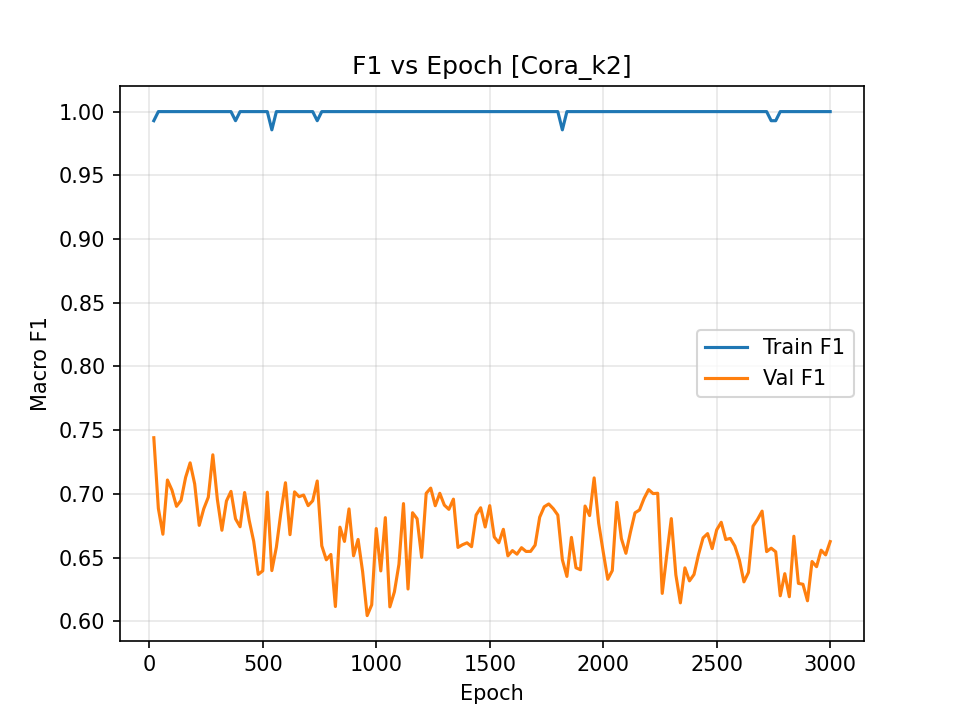
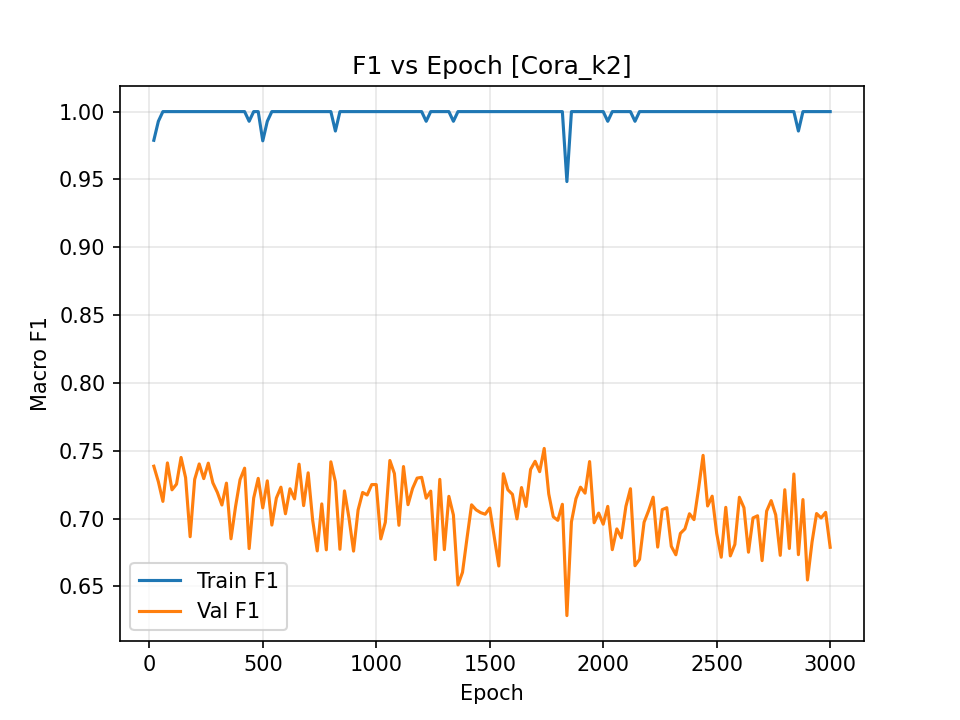
Increased weight decay to 5e-3 to prevent validation loss explosion

diff --git a/run.py b/run.py
@@ -62,7 +62,7 @@ def evaluate(model, data, criterion):
 
  # ── Training ──────────────────────────────────────────────────────────────────
  
-def train(data, k, epochs=3000, hidden_dim=128, lr=0.01, weight_decay=5e-4, seed=42):
+def train(data, k, epochs=3000, hidden_dim=128, lr=0.01, weight_decay=5e-3, seed=42):
     torch.manual_seed(seed)
     torch.cuda.manual_seed(seed)
     device = torch.device('cuda' if torch.cuda.is_available() else 'cpu')
